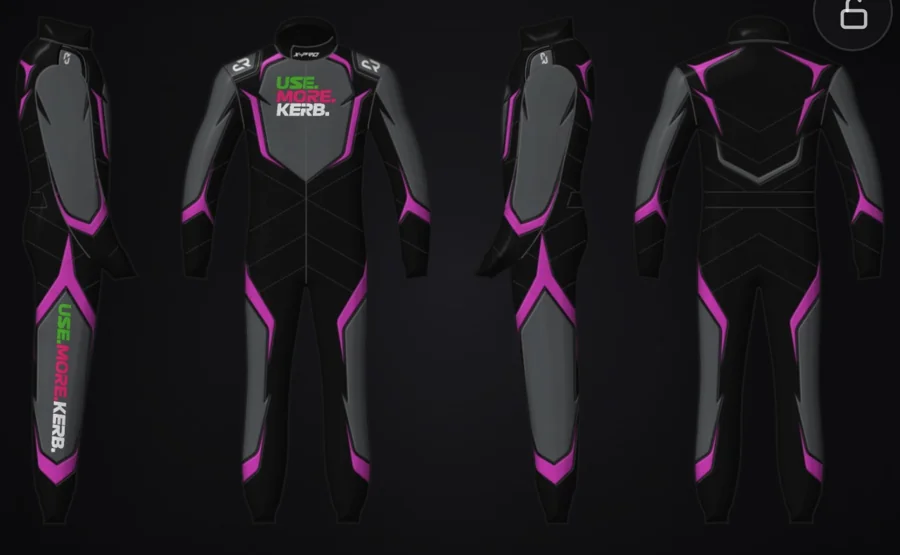
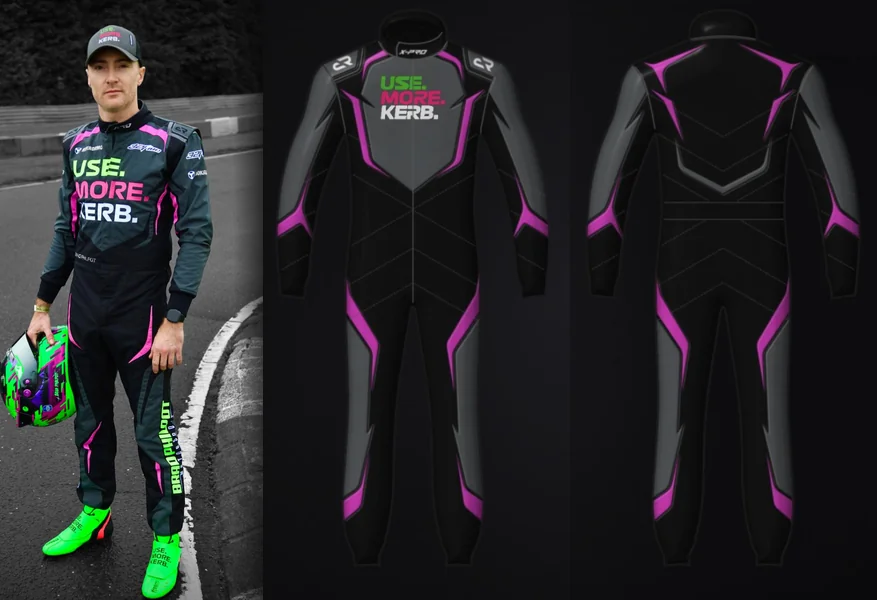
Store: Custom Racewear image is now a clean side-by-side of Brad in the suit and the front/back design
Claude-Session: https://claude.ai/code/session_015VNHxvPxgc79iAZc2QEA9e

diff --git a/store/index.html b/store/index.html
@@ -68,7 +68,6 @@ header.top .brand h1{font-size:clamp(30px,9vw,40px);letter-spacing:.02em;overflo
 .big.crw{border-color:rgba(255,255,255,.28);background:linear-gradient(180deg,rgba(0,0,0,0) 40%,rgba(0,0,0,.8) 82%),radial-gradient(50% 45% at 50% 30%,rgba(255,255,255,.16),transparent 72%),radial-gradient(40% 40% at 20% 20%,rgba(255,0,116,.3),transparent 72%),radial-gradient(40% 40% at 82% 26%,rgba(0,190,0,.28),transparent 72%),repeating-linear-gradient(118deg,rgba(255,255,255,.04) 0 2px,transparent 2px 16px),linear-gradient(160deg,#1d1e24,#09090b 60%)}
 .big.crw .crwpic{position:relative;display:block;margin:-22px -18px 14px}
 .big.crw .crwpic .suits{display:block;width:100%;height:auto}
-.big.crw .crwpic .brad{position:absolute;right:10px;bottom:-18px;width:26%;height:auto;border-radius:12px;border:2px solid rgba(255,255,255,.85);box-shadow:0 8px 18px rgba(0,0,0,.6)}
 .big.crw .crwlogo{display:block;width:54px;height:auto;margin:0 0 10px}
 </style>
 <script data-goatcounter="https://usemorekerb.goatcounter.com/count" async src="https://gc.zgo.at/count.js"></script>
@@ -83,7 +82,7 @@ header.top .brand h1{font-size:clamp(30px,9vw,40px);letter-spacing:.02em;overflo
   <button class="code" id="code" aria-label="Copy discount code USEMOREKERB"><span>10% off with code</span><b>USEMOREKERB</b><svg viewBox="0 0 24 24"><rect x="9" y="9" width="11" height="11" rx="2"/><path d="M5 15V5a1 1 0 0 1 1-1h10"/></svg></button>
   <a class="big kkc" href="https://kkckartshop.co.uk/BradPhilpot" target="_blank" rel="noopener sponsored" data-shop="kkc"><img class="pic" src="../img/store-kkc.png" alt="Brad's KKC-liveried kart and the Use More Kerb KG M7 steering wheel" width="600" height="330" loading="lazy"><img class="lg" src="../logos/sponsors/kkc.png" alt="KKC Karting Components" style="height:34px"><b>Kart parts and spares</b><p>Parts, spares and accessories for your kart from KKC Kart Shop.</p><span class="go">Shop KKC ›</span></a>
   <button class="code" id="codeKkc" aria-label="Copy KKC discount code USEMOREKERB"><span>KKC discount code<small>One use per customer</small></span><b>USEMOREKERB</b><svg viewBox="0 0 24 24"><rect x="9" y="9" width="11" height="11" rx="2"/><path d="M5 15V5a1 1 0 0 1 1-1h10"/></svg></button>
-  <a class="big crw" href="https://www.customracewear.co.uk/" target="_blank" rel="noopener" data-shop="customracewear"><span class="crwpic"><img class="suits" src="../img/store-crw.webp" alt="USE. MORE. KERB. race suit design by Custom Racewear" loading="lazy"><img class="brad" src="../img/store-crw-brad.webp" alt="Brad in his Custom Racewear suit" loading="lazy"></span><img class="crwlogo" src="../logos/sponsors/customracewear.png" alt="Custom Racewear" width="300" height="300"><b>Custom Racewear</b><p>Custom race suits and team kit designed and made to your own livery.</p><span class="go">Shop Custom Racewear ›</span></a>
+  <a class="big crw" href="https://www.customracewear.co.uk/" target="_blank" rel="noopener" data-shop="customracewear"><span class="crwpic"><img class="suits" src="../img/store-crw.webp" alt="Brad in his USE. MORE. KERB. Custom Racewear suit, and the suit design" loading="lazy"></span><img class="crwlogo" src="../logos/sponsors/customracewear.png" alt="Custom Racewear" width="300" height="300"><b>Custom Racewear</b><p>Custom race suits and team kit designed and made to your own livery.</p><span class="go">Shop Custom Racewear ›</span></a>
   <a class="back" href="../">‹ Use More Kerb home</a>
 </div></div>
 <div class="toast" id="toast"></div>

diff --git a/sw.js b/sw.js
@@ -1,7 +1,7 @@
 /* Season Planner offline support.
    Pages and race data: try the network first (so updates show straight away), fall back to the saved copy when offline.
    Logos, icons and fonts: use the saved copy, refresh it in the background. */
-const CACHE = "umk-planner-v22";
+const CACHE = "umk-planner-v23";
 const CORE = [
   "./", "index.html", "manifest.webmanifest", "version.json",
   "data/races.json", "data/brad.json",
